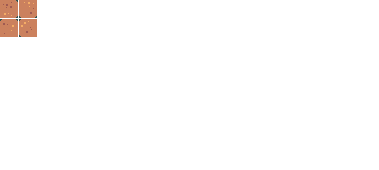
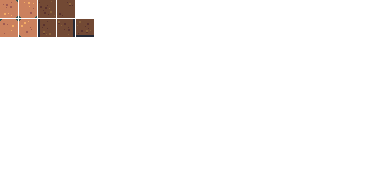
Add cave background tiles

Changed region(s): [[0.0871, 0.0, 0.2612, 0.2353]]

diff --git a/src/Assets/TileSets/pixel-platformer-customized.tsx b/src/Assets/TileSets/pixel-platformer-customized.tsx
@@ -13,6 +13,18 @@
    <property name="TileType" propertytype="TileType" value="Geometry"/>
   </properties>
  </tile>
+ <tile id="2" type="WorldTile">
+  <properties>
+   <property name="AssetId" value="c096150b-1173-42cc-a092-d3551c9ef6b8"/>
+   <property name="TileType" propertytype="TileType" value="Geometry"/>
+  </properties>
+ </tile>
+ <tile id="3" type="WorldTile">
+  <properties>
+   <property name="AssetId" value="7d7006a1-0c73-4da6-988b-e62adbbe158b"/>
+   <property name="TileType" propertytype="TileType" value="Geometry"/>
+  </properties>
+ </tile>
  <tile id="20" type="WorldTile">
   <properties>
    <property name="AssetId" value="67dc0dbb-9a16-4822-90a7-06520a42f651"/>
@@ -22,6 +34,24 @@
  <tile id="21" type="WorldTile">
   <properties>
    <property name="AssetId" value="fb89812c-6085-4995-b1df-27135fbe4c35"/>
+   <property name="TileType" propertytype="TileType" value="Geometry"/>
+  </properties>
+ </tile>
+ <tile id="22" type="WorldTile">
+  <properties>
+   <property name="AssetId" value="c945d882-1ca8-4f29-969e-1b74ccc7f0b4"/>
+   <property name="TileType" propertytype="TileType" value="Geometry"/>
+  </properties>
+ </tile>
+ <tile id="23" type="WorldTile">
+  <properties>
+   <property name="AssetId" value="b6d4a5ff-963e-4a0c-9bb0-8e705c5319d9"/>
+   <property name="TileType" propertytype="TileType" value="Geometry"/>
+  </properties>
+ </tile>
+ <tile id="24" type="WorldTile">
+  <properties>
+   <property name="AssetId" value="38eecb0a-bfb3-40cc-a1f8-aa9784082dd0"/>
    <property name="TileType" propertytype="TileType" value="Geometry"/>
   </properties>
  </tile>

diff --git a/src/Assets/TileSets/pixel-platformer.tsx b/src/Assets/TileSets/pixel-platformer.tsx
@@ -462,6 +462,12 @@
    <property name="TileType" propertytype="TileType" value="Geometry"/>
   </properties>
  </tile>
+ <tile id="104" type="WorldTile">
+  <properties>
+   <property name="AssetId" value="c28490ad-7c6e-4102-bbd0-5584071cec7a"/>
+   <property name="TileType" propertytype="TileType" value="Geometry"/>
+  </properties>
+ </tile>
  <tile id="105" type="WorldTile">
   <properties>
    <property name="AssetId" value="94fe40d8-12a4-4341-b20c-87e019c95d27"/>
